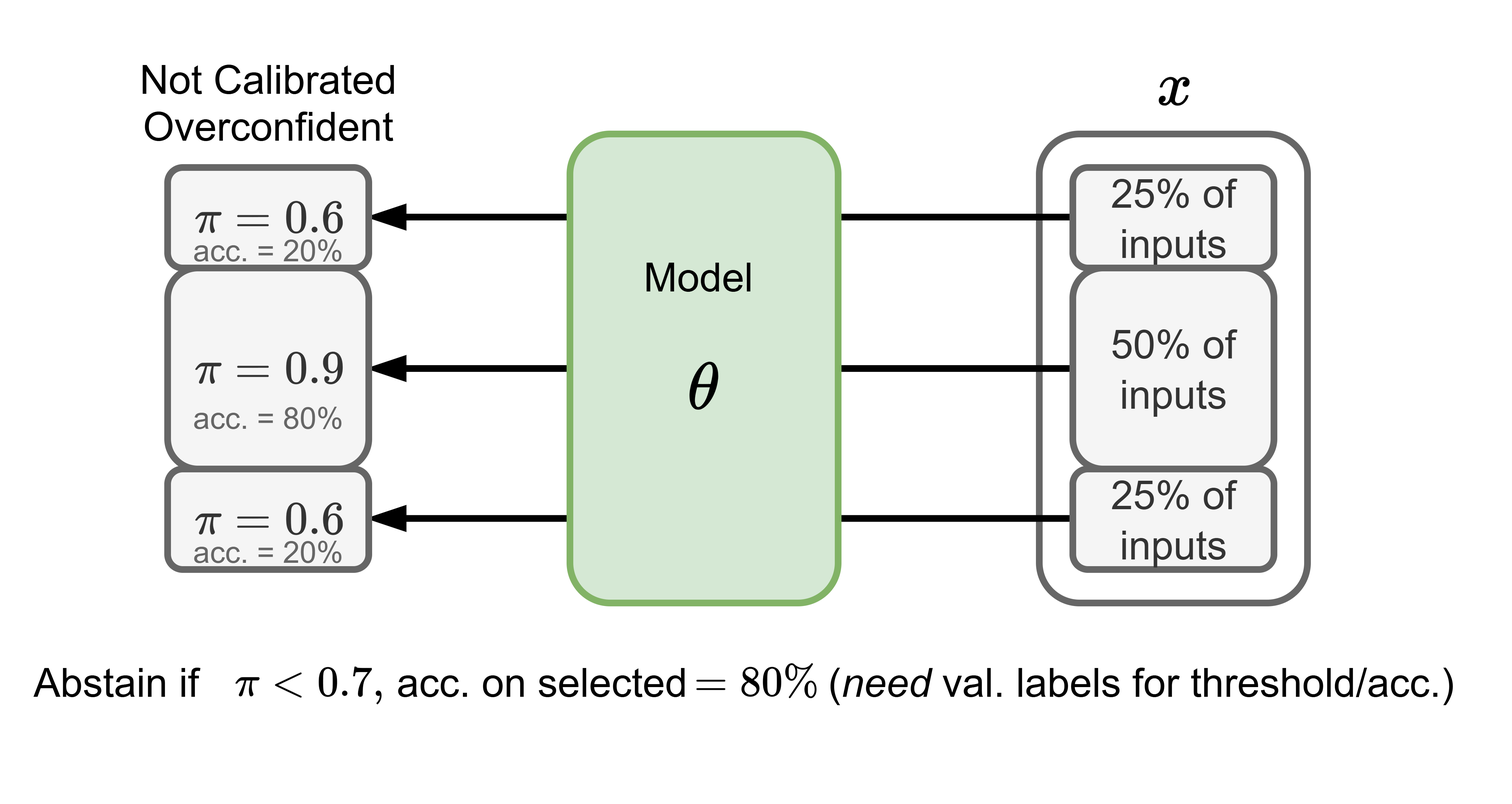
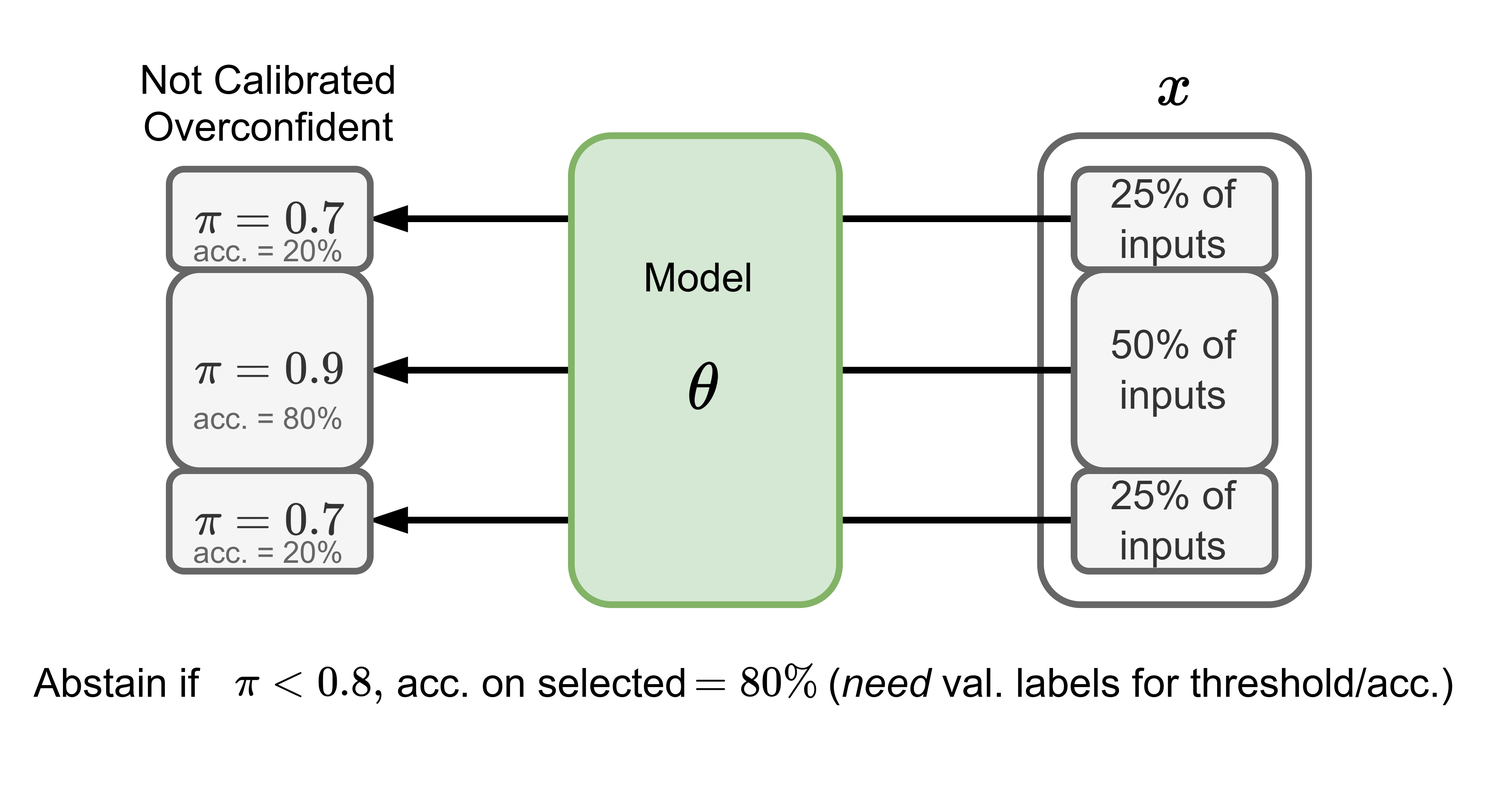
updated manuscript

diff --git a/_posts/2026-04-27-useful-calibrated-uncertainties.md b/_posts/2026-04-27-useful-calibrated-uncertainties.md
@@ -1,7 +1,7 @@
 ---
 layout: distill
 title: What (and What Not) are Calibrated Uncertainties Actually Useful for?
-description: The blogpost clarifies the usefulness of having a model with calibrated probabilities, something that is not often stated in the calibration literature. I shows that a calibrated model can be relied on to estimate average loss/reward, however, good calibration does not mean that a model is useful for per-sample decision making. 
+description: This blogpost clarifies the practical usefulness of having a model with calibrated probabilities, something that is not often clearly stated in the calibration literature. We show that a calibrated model can be relied on to estimate average loss/reward, however, good calibration does not mean that a model is useful for per-sample decision making. 
 date: 2026-04-27
 future: true
 htmlwidgets: true
@@ -42,18 +42,18 @@ toc:
 {% include figure.liquid path="assets/img/2026-04-27-useful-calibrated-uncertainties/confused.png" class="img-fluid z-depth-1" %}
 ## People Have a Fuzzy Impression of Calibration (in AI)
 
-The goal of this blogpost is to provide an intuitive and helpful guide on understanding the *practical usefulness* of a *well-calibrated* model, for practitioners/researchers in AI both familiar and unfamiliar with calibration. Anecdotally, when I tell researchers and practictioners from other domains that I work in uncertainty estimation, they often give remarks along the lines of "Oh so like calibration?" or "You mean probabilistic and Bayesian/Conformal stuff?". They seem to know of the research domain and associate it with vague motivations of "safety", "trustworthiness" and "reliability", but often have unclear senses of what it actually entails. Furthermore, even *within* the research domain people often have fuzzy impressions of the motivation for wanting a calibrated model. Papers on calibration are often written with one or two motivating paragraphs, before promptly moving onto the main algorithmic meat. Reading the literature thus becomes a way to learn about *how to better calibrate models* without really engaging concretely with *how, why and when calibrated models are useful*. 
+The goal of this blogpost is to provide an intuitive and helpful guide on understanding the *practical usefulness* of a *well-calibrated* model, for practitioners/researchers in AI both familiar and unfamiliar with calibration. Anecdotally, when I tell researchers and practictioners from other domains that I work in uncertainty estimation, they often give remarks along the lines of "Oh so like calibration?" or "You mean probabilistic and Bayesian stuff?". They seem to know of the research domain and associate it with vague motivations of "safety", "trustworthiness" and "reliability", but often have an unclear sense of what it actually entails. Furthermore, even amongst uncertainty researchers, people often have fuzzy impressions of the motivation for wanting a calibrated model. Papers on calibration are often written with one or two motivating paragraphs, before promptly moving onto the main algorithmic meat. Reading the literature thus becomes a way to learn about *how to better calibrate models* without really engaging concretely with *how, why and when calibrated models are useful*. 
 
-Morevoer, many such motivating paragraphs, in order to communicate more intuitively, end up being imprecise and consequently misleading. Below I've included an excerpt from the introduction of *On Calibration of Modern Neural Networks* <d-cite key="Guo2017Calibration"></d-cite> which is the go-to introductory paper for calibration in deep learning. It is broadly representative of how calibration is typically motivated in AI research recently, and we will unpick it gradually over the course of this blogpost.
+Many motivating paragraphs in papers, in order to communicate with the reader more intuitively, end up being imprecise and consequently misleading. Below I've included an excerpt from the introduction of *On Calibration of Modern Neural Networks* <d-cite key="Guo2017Calibration"></d-cite> which is the go-to introductory paper for calibration in deep learning. It is broadly representative of how calibration is typically motivated in AI research recently, and we will unpick it gradually over the course of this blogpost.
 > In real-world decision making systems, classification networks must not only be accurate, but also should indicate when they are likely to be incorrect. As an example, consider a self-driving car that uses a neural network to detect pedestrians and other obstructions. If the detection network is not able to confidently predict the presence or absence of immediate obstructions, the car should rely more on the output of other sensors for braking. Alternatively, in automated health care, control should be passed on to human doctors when the confidence of a disease diagnosis network is low. Specifically, a network should provide a calibrated confidence measure in addition to its prediction. In other words, the probability associated with the predicted class label should reflect its ground truth correctness likelihood. 
 
-A reader is likely to come away from this paragraph thinking that calibration is important for *mitigating risk* from errors during *individual scenarios* (i.e. for an specific road object or individual patient). The reality is more nuanced than this; calibration is actually somewhat orthogonal to a model's ability to detect its own errors. As such, it is easy to come to misunderstandings over calibration when engaging with the literature. After reading this blogpost, hopefully the reader will have a clearer understanding and intuition of what a calibrated model enables/is important for, and in what usecases calibration is actually insufficient. 
+A reader is likely to come away from this paragraph thinking that calibration is important for *mitigating risk* from errors during *individual scenarios* (i.e. for a specific road object or individual patient). The reality is more nuanced than this; calibration is actually somewhat orthogonal to a model's ability to detect its own errors. As such, it is easy to come to misunderstandings over calibration after reading passages like the above in the literature. After reading this blogpost, hopefully the reader will have a clearer understanding and intuition of what a calibrated model actually is important for, and in what usecases calibration is actually insufficient. 
 
 ## A General Explanation of Calibration
 
-Calibration, as it is defined in deep learning, is not an intuitive concept to understand. As such paper authors tend to first motivate it using imprecise, but more intuitive natural language. I will first provide a general explanation of calibration to the reader as a basis for the rest of the blogpost.
+Calibration, as it is defined in deep learning, is not an intuitive concept to understand. As such paper authors tend to first motivate it using imprecise, but more intuitive natural language, like in the example above. We will instead start with a clear and general explanation of calibration to the reader as a basis for the rest of the blogpost.
 
-For a model to be calibrated, when it predicts a certain probability distribution over different outcomes, the real-world frequency of said outcomes should match that probability distribution. A widely used example is weather forecasting: over a long run of days, it should rain 70% of the time for the days forecasted with 70% chance of rain. Explicitly in natural language a calibrated model is one where 
+For a model to be calibrated, when it predicts a certain probability distribution over different outcomes, the real-world frequency of said outcomes should match that probability distribution.<d-footnote>We will focus on distributions over discrete outcomes in the post as it is the most common setting for calibration.</d-footnote> A widely used example is weather forecasting: over a long run of days, it should rain on 70% of the days which have 70% chance of rain forcasted. Explicitly in natural language a calibrated model is one where 
 
 $$
 \begin{array}{l}
@@ -80,7 +80,7 @@ $$
 \underbrace{P(\text{event} \mid  \pi) = \pi}_\text{actual probability of event is $\pi$},\quad \text{for }\underbrace{\pi={P}_{\theta}(\text{event}\mid \text{conditions}) }_\text{when model predicts probability $\pi$}\text{ in } [0,1], \tag{2}\label{eq:calib-math}
 $$
 
-where $\pi$ is a random variable that captures the value of the probability output by our model with parameters $\theta$. $\text{conditions}$ could be "temperature of the previous day", for example.  We leave the general version here for reference. In this blogpost we will focus on binary events, however, the intuitions/ideas naturally extend to the general case.
+where $\pi$ is a random variable that captures the value of the probability output by our model with parameters $\theta$. $\text{conditions}$ could be "temperature of the previous day", for example. In this blogpost we will focus on binary events, however, the intuitions/ideas naturally extend to the general case. We leave the general version here for reference:
 
 $$
 \begin{align*}
@@ -107,9 +107,9 @@ In the binary case, how well calibrated a model is can be visualised using a rel
 Left: Reliability diagram showing over and under-confident models. Right: Practical reliability diagram where empirical frequencies are estimated using bins.
 </div>
 
-A perfectly calibrated model will thus align with $y=x$. Devation below indicates "overconfidence" (frequency < predicted probability); deviation above indicates "underconfidence" (frequency > predicted probability). Note that the notion of over/under-confidence is much more specific here than in colloquial usage; we will return to this point later. Also, a model can be overconfident for a certain range of probabilities and underconfident on a different range (i.e. both at the same time), however, for simplicity's sake we'll limit discussion in this blog to models that are either over or under confident without loss of generality.
+A well calibrated model's reliability diagram will align with $y=x$ (Eq. \ref{eq:calib-natlang} is satisfied). Devation below indicates "overconfidence" (real frequency < predicted probability); deviation above indicates "underconfidence" (real frequency > predicted probability). Note that the notion of over/under-confidence is much more specific here than in colloquial usage; we will return to this point later. Also, a model can be overconfident for a certain range of probabilities and underconfident on a different range (i.e. both at the same time), however, for simplicity's sake we'll limit discussion in this blog to models that are either over or under confident without loss of generality.
 ### Confidence Calibration
-The above general presentation of calibration doesn't immediately resonate with the idea of mitigating risk in safety-critical scenarios that is present in our quoted exerpt from *On Calibration of Modern Neural Networks* <d-cite key="Guo2017Calibration"></d-cite>, as well as generally throughout the literature. In fact, in *On Calibration of Modern Neural Networks*, Guo et al. choose a binary $\text{event}$ "model prediction is correct" from the scenario of multi-class classification, which then inherently ties calibration to prediction errors and their associated risks/costs. This specific case of calibration is known as *confidence calibration* and is the primary form that is found in the literature <d-cite key="Guo2017Calibration,Minderer2021Revisiting,param_temp_scaling_eccv2022,Xiong2023ProCal"></d-cite>. In this case, Eq. \ref{eq:calib-natlang} becomes:
+The above general presentation of calibration doesn't immediately resonate with the idea of mitigating risk in safety-critical scenarios that is present in our quoted exerpt from *On Calibration of Modern Neural Networks* <d-cite key="Guo2017Calibration"></d-cite>, as well as generally throughout the literature. In fact, in *On Calibration of Modern Neural Networks*, Guo et al. choose a binary $\text{event}$ "model prediction is correct" from the scenario of multi-class classification, which then inherently ties calibration to prediction errors and their associated risks/costs. This specific case of calibration is known as *confidence calibration* and is the primary form that is found in the deep learning literature <d-cite key="Guo2017Calibration,Minderer2021Revisiting,Zhang2020MixnMatchCalibration,param_temp_scaling_eccv2022,Xiong2023ProCal"></d-cite>. In this case, Eq. \ref{eq:calib-natlang} becomes:
 
 $$
 \begin{array}{l}
@@ -120,14 +120,24 @@ $$
 \tag{3}\label{eq:conf-calib-natlang}
 $$
 
-or mathematically for true label $y$, input $x$ and predicted label (top class) $\hat y=f_\phi(x)$
+or mathematically for true label $y$, input $x$ and predicted label (top class) $\hat y=f_\phi(x)$ of classifier $f_\phi$ with parameters $\phi$,
 <!-- =\arg \max_\omega P_{\theta}(\omega\mid x)$, -->
 
 $$
 \underbrace{P\bigl(y=\hat y \mid  \pi\bigr) = \pi}_\text{actual classification accuracy is $\pi$},\quad \text{for }\underbrace{\pi=P_{\theta}(y=\hat y\mid x) }_\text{predicts probability $\pi$} \text{ in } [0,1]. \tag{4}\label{eq:conf-calib-math}
 $$
 
-One nuance the reader should be aware of is that for the purposes of confidence calibration, the model for the binary event $P_\theta(y=\hat y\mid x)$ is conceptually separate from the underlying classifier $f_\phi(x)$. However, when the classifier is a cross-entropy-trained softmax model (i.e. the vast majority of classifiers in deep learning), ${P}_{\theta}(y=\hat y\mid x)$ can be, and almost always is, extracted from the probability vector over classes output by the classifier<d-cite key="LeCoz2024EfficientCalibration"></d-cite>.
+One nuance the reader should be aware of is that for the purposes of confidence calibration, the model for the binary $\text{event}$ "model prediction is correct" $P_\theta(y=\hat y\mid x)$ is conceptually separate from the underlying classifier $f_\phi(x)$, and does not necessarily have to share parameters. However, when the classifier is a cross-entropy-trained softmax model (i.e. the vast majority of classifiers in deep learning), ${P}_{\theta}(y=\hat y\mid x)$ can be, and almost always is, extracted from the probability vector over classes output by the classifier<d-cite key="LeCoz2024EfficientCalibration"></d-cite>. In this case
+
+$$
+P_{\theta}(y=\hat y\mid x) =  \text{softmax}\bigl(\text{logits}_\phi(x)\bigr)_\hat{y}.
+$$
+
+$$
+\hat y = \arg\max_k \text{logits}_\phi(x)_k,
+$$
+
+Thus $P_\theta(y=\hat y\mid x)$ can be viewed as the confidence of the classifier $f_\phi$ in its own prediction, hence the name *confidence calibration*.
 
 For further discussion of other realisations of calibration (e.g. with different definitions of the binary $\text{event}$), as well as more specifics on how calibration is measured in practice (e.g *Expected Calibration Error*<d-cite key="Naeini2015BBQ"></d-cite>) I recommend this [excellent blogpost](https://iclr-blogposts.github.io/2025/blog/calibration/) by Maja Pavlovic <d-cite key="pavlovic2025understanding"></d-cite>.
 ## What Do Calibrated Probabilities Allow You to Do?
@@ -138,7 +148,7 @@ $$
 P(e \mid  \pi) = \pi, \quad \text{for }\pi={P}_{\theta}(e\mid c) \in [0,1].
 $$
 
-where we've abbreviated $\text{event}$ and $\text{conditions}$ to random variables $e$ and $c$ respectively. Intuitively, this means that for the predictions with $\pi$ equals to some value, say $0.7$, we can reliably expect $\text{event}$ to occur $70\%$ of the time. Consider a loss (or reward) function $\mathcal{L}(e,\pi)$ that depends on $\text{event}$ and the model's predicted probability. For example, the 0-1 multiclass classification loss for confidence calibration is 0 when $\text{event}$ occurs (correct prediction) and 1 when $\text{event}$ doesn't occur (misclassification). Intuitively, we can now rely on $\pi$ to calculate the *expected/average loss*. Consider confidence calibration where for some image classifier our binary model is assigning the predicted class probability $\pi=0.6$ of being correct for half of the input images $x$ and $\pi=0.4$ for the other half. If our model is well calibrated we can then reliably claim that it will have an average accuracy of $60\%$ on the first half and $40\%$ on the second half, leading to an overall accuracy of $50\%$, *without needing to compare its predictions to any ground truth labels $y$*. This is the sense in which a calibrated model is *reliable*.
+where we've abbreviated $\text{event}$ and $\text{conditions}$ to random variables $e$ and $c$ respectively. Intuitively, this means that for the predictions with $\pi$ equals to some value, say $0.7$, we can reliably expect $\text{event}$ to occur $70\%$ of the time. Consider a loss (or reward) function $\mathcal{L}(e,\pi)$ that depends on $\text{event}$ and the model's predicted probability. For example, in the case of confidence calibration, the 0-1 multiclass classification loss is 0 when $\text{event}$ occurs (correct prediction) and 1 when $\text{event}$ doesn't occur (misclassification). Intuitively, we can now rely on $\pi$ to calculate the *expected/average loss*. Consider confidence calibration where for some image classifier our binary model is predicting $\pi=0.6$ probability of being correct for half of the input images $x$ and $\pi=0.4$ for the other half. If our model is well calibrated we can then reliably claim that it will have an average accuracy of $60\%$ on the first half and $40\%$ on the second half, leading to an overall accuracy of $50\%$, *without needing to compare its predictions to any ground truth labels $y$*. This is the sense in which a calibrated model is *reliable*.
 
 {% include figure.liquid path="assets/img/2026-04-27-useful-calibrated-uncertainties/calibration_illust.png" class="img-fluid z-depth-1" %}
 
@@ -146,7 +156,7 @@ where we've abbreviated $\text{event}$ and $\text{conditions}$ to random variabl
 Illustration of how a confidence-calibrated model allows estimation of expected accuracy from only inputs/conditions without needing events/labels.
 </div>
 
-Once we have a reliable estimate of the expected loss/reward we can make downstream decisions, e.g. in this deployment scenario the image classifier is not accurate enough and will lead to profit loss from misclassifications, so we decide to not deploy it. Additionally, humans are naturally able to interpret probabilities by inspection <d-cite key="CosmidesTooby1996IntuitiveStat"></d-cite>, so human decision making can be performed naturally and reliably if model outputs are calibrated probabilities.
+Once we have a reliable estimate of the expected loss/reward we can make downstream decisions, e.g. for a certain deployment scenario the image classifier is not accurate enough and will lead to profit loss from misclassifications, so we decide to not deploy it. Additionally, humans are naturally able to intuitively interpret probabilities by inspection <d-cite key="CosmidesTooby1996IntuitiveStat"></d-cite>,<d-footnote>Imagine you are told a weighted coin returns heads 80% of the time. It's easy to visualise and reason about.</d-footnote> so human decision making can be performed naturally and reliably if model outputs are calibrated probabilities.
 
 > **Key Takeaway.**
 >  *A well-calibrated model enables reliable estimation of average loss/reward from only inputs/conditions without any ground truth events/labels. These reliable estimates can then be used to effectively inform downstream decisions that depend on average behaviour*. 
@@ -170,9 +180,9 @@ If the model is well calibrated we can subsitute $\pi$ in for $P(e\mid \pi)$ and
 $$
 \begin{align*}
 \mathbb{E}[\mathcal{L}(e,\pi(e,c))]&=  \sum_{e,\pi} \mathcal{L}(e,\pi) P(e \mid \pi) \sum_{c} \delta(\pi(e,c)) P(c) \\
-&=  \underbrace{\sum_{e} \mathcal{L}(e,\pi) \sum_{c}\pi(e,c) P(c)}_{\text{no explicit sum over }\pi\text{ as it is a fixed function of }e,c} \\
-&=  \sum_{c} P(c) \sum_{e} \mathcal{L}(e,\pi) \pi(e,c)\\
-&\approx \frac{1}{N} \sum_{n} \mathcal{L}(e=1,\pi^{(n)}) \pi^{(n)} +\mathcal{L}(e=0,\pi^{(n)}) (1-\pi^{(n)})  
+&=  \underbrace{\sum_{e} \mathcal{L}(e,\pi) \sum_{c}\pi(e,c) P(c)}_{\text{no sum over }\pi\text{ as it is a fixed function of }e,c} \\
+&= \underbrace{\sum_{c} P(c) \sum_{e} \mathcal{L}(e,\pi) \pi(e,c)}_{\text{no need for }P(e,c)\text{ only the distribution }P(c)}\\
+&\approx \frac{1}{N} \sum_{n} \mathcal{L}(e=1,\pi^{(n)}) \pi^{(n)} +\mathcal{L}(e=0,\pi^{(n)}) (1-\pi^{(n)})  \tag{5}\label{eq:expected-loss-est}
 \end{align*}
 $$
 
@@ -180,22 +190,23 @@ Thus showing that **a well-calibrated model enables reliable estimation of avera
 
 ### Interactive Example
 Below we discuss a concrete example where we want to decide on a decision threshold for issuing loans based on predicted default probabilities. The problem setup is as follows:
-- A bank wants to issue loans to customers based on their predicted probability of default.
+- A bank wants to issue loans to customers based on their predicted probability of default (failure to pay the loan back) .
 - On average 35% of customers default on their loans.
 - The bank incurs a loss of 240 dollars for each defaulted loan and gains 18 dollars for each successfully repaid loan.
-- The bank uses a machine learning model to predict the probability of default (failure to pay back) for each customer.
-- If the predicted probability of default is above threshold $\tau$ the bank decides not to lend.
+- The bank uses a machine learning model to predict the probability of default for each customer.
+- If the predicted probability of default is above threshold $\tau$ the bank decides not to lend (no loss or profit for that customer).
 - The bank wants to choose the threshold $\tau$ that maximises profit, but the responsible department doesn't have access to default event data and so relies on the model probabilities assuming they are calibrated.
+- Given calibrated predicted probability of default $\pi$, the expected profit from issuing a loan is $18 \times (1-\pi) - 240 \times \pi$.
 
-Explore $\tau$ by varying it to maximise the estimated profit. You should observe that by optimising $\tau$ based on the calibrated model probabilities, the bank can achieve near-optimal profit even without access to default $\text{event}$ data, i.e. the model can be trusted. Now toggle to the uncalibrated models. The average profit estimates become unreliable, leading to choices of $\tau$ that squander profit or even incur losses on the actual customers. The model that is overconfident about the probability of defaulting leads to overly pessimistic estimates of profit, whilst the underconfident model is overly optimistic. 
+Explore $\tau$ by varying it to maximise the estimated profit.<d-footnote>Note that intutively the optimal threshold is on the boundary where expected profit given $\pi$ turns to zero for calibrated $\pi$.</d-footnote>  You should observe that by optimising $\tau$ based on the calibrated model probabilities, the bank can achieve near-optimal profit even without access to default $\text{event}$ data, i.e. the model can be trusted. Now toggle to the uncalibrated models. The average profit estimates become unreliable, leading to choices of $\tau$ that squander profit or even incur losses on the actual customers. The model that is overconfident about the probability of defaulting leads to overly pessimistic estimates of profit, whilst the underconfident model is overly optimistic. 
 
 <div class="l-page">
   <iframe
     src="{{ 'assets/html/2026-04-27-useful-calibrated-uncertainties/loan_widget.html' | relative_url }}"
     frameborder="0"
     scrolling="no"
-    height="600px"
-    width="120%"
+    height="500px"
+    width="100%"
   ></iframe>
 </div>
 
@@ -207,12 +218,12 @@ Recall the motivating paragraph from *On Calibration of Modern Neural Networks* 
 {% include figure.liquid path="assets/img/2026-04-27-useful-calibrated-uncertainties/selective_classification.png" class="img-fluid z-depth-1" %}
 
 <div class="caption">
-Illustration automated medical diagnosis with selective classification where a prediction should be deferred to an expert if it is likely to be incorrect.
+Illustration of automated medical diagnosis with selective classification where a prediction should be deferred to an expert if it is likely to be incorrect.
 </div>
 
-What the authors are actually describing here is selective classification <d-cite key="Geifman2017SelectiveClassification,Jaeger2023FailureDetection,Xia2024SelectiveOOD"></d-cite> (or classification with abstention), rather than calibration. In selective classification, if a model is likely to make an error on a specific input, then a useful uncertainty estimate should reflect this by indicating low confidence, triggering abstention, e.g. deferring a diagnosis to a human doctor. That is to say, better per-sample decisions can be made based on the model $P_\theta(\text{event}\mid \text{conditions})$. This is an intuitively desirable property for uncertainty estimates, however, **a well-calibrated model is not one that is necessarily better for per-sample decision making**, like selective classification.
+The task the authors are describing here is selective classification <d-cite key="Geifman2017SelectiveClassification,Jaeger2023FailureDetection,Xia2024SelectiveOOD"></d-cite> (or classification with abstention). In selective classification, if a model is likely to make an error on a specific input, then a useful uncertainty estimate should reflect this by indicating low confidence, triggering abstention, e.g. deferring a diagnosis to a human doctor. Here, per-sample decisions are made based on the model $P_\theta(\text{event}\mid \text{conditions})$. This is an intuitively desirable property for uncertainty estimates, however, **a well-calibrated model is not one that is necessarily better for per-sample decision making**, for tasks such as selective classification.
 
-Consider our previous well-calibrated image classifier. Here we are focusing on the model of $P_\theta(\text{event of correct prediction}\mid \text{image})$ rather than the multi-class classifier $f_\phi(x)$ itself, which we assume has a constant accuracy of $50\%$. If we set $\tau = 0.5$, then we would abstain on the images with accuracy $40\%$ and boost the accuracy on the selected images to $60\%$. 
+Consider again our previously discussed well-calibrated image classifier. Here we are focusing on the model of $P_\theta(\text{event of correct prediction}\mid \text{image})$ rather than the multi-class classifier $f_\phi(x)$ itself, which we assume has a constant accuracy of $50\%$. If we set abstention threshold $\tau = 0.5$, then we would abstain on the images with accuracy $40\%$ and boost the accuracy on the selected images to $60\%$. 
 
 {% include figure.liquid path="assets/img/2026-04-27-useful-calibrated-uncertainties/calibration_discrimination.png" class="img-fluid z-depth-1" %}
 
@@ -220,7 +231,7 @@ Consider our previous well-calibrated image classifier. Here we are focusing on 
 Illustration of how abstention can improve accuracy by rejection uncertain predictions.
 </div>
 
-However, if we consider another well-calibrated model that predicts $\pi=0.5$ for *all* images, then all predictions have tied confidence and we have no way to discriminate between correct and incorrect predictions. It is well-calibrated but its uncertainties are *useless* for abstaining on potential errors! The key here is that *calibration is related to the accuracy* ***averaged*** *over different inputs* $x$, and does not interrogate the model for each input individually. It only examines $\pi$ with respect to true probability $P(\text{event}\mid \pi)$, not with respect to true probability $P(\text{event}\mid \text{conditions})$.
+However, if we consider another well-calibrated model that predicts the average accuracy $\pi=0.5$ for *all* images, then all predictions have tied confidence and we have no way to discriminate between correct and incorrect predictions, even though for selective classification we would like our model to be more uncertain on errors. The model is well-calibrated but its uncertainties are *useless* for abstaining on potential errors! The key here is that *calibration is related to the accuracy* ***averaged*** *over different inputs* $x$, and does not interrogate the model for each input individually. It only examines $\pi$ with respect to true probability $P(\text{event}\mid \pi)$, not with respect to the per-sample true probability $P(\text{event}\mid \text{conditions})$.
 
 {% include figure.liquid path="assets/img/2026-04-27-useful-calibrated-uncertainties/cal_bad_disc.png" class="img-fluid z-depth-1" %}
 
@@ -228,7 +239,7 @@ However, if we consider another well-calibrated model that predicts $\pi=0.5$ fo
 Illustration of how a well-calibrated model with no discrimination ability cannot improve accuracy via abstention.
 </div>
 
-Conversely, if a different well-calibrated model for $\text{event}$ "correct prediction" is able to predict $\pi=0.8$ for a subset of half of the images where the classifier has accuracy $80\%$ and $\pi=0.2$ for the other half where accuracy is $20\%$, then the selected images will have an accuracy of $80\%$ when setting $\tau=0.5$. 
+Conversely, if a different well-calibrated model for $\text{event}$ "correct prediction" is able to predict $\pi=0.8$ for a subset of half of the images where the classifier has accuracy $80\%$ (different to previous subsets) and $\pi=0.2$ for the other half where accuracy is $20\%$, then the selected images will have an accuracy of $80\%$ when setting $\tau=0.5$. 
  
  {% include figure.liquid path="assets/img/2026-04-27-useful-calibrated-uncertainties/cal_better_disc.png" class="img-fluid z-depth-1" %}
 
@@ -236,7 +247,9 @@ Conversely, if a different well-calibrated model for $\text{event}$ "correct pre
 Illustration of how a well-calibrated model with better discrimination ability can improve accuracy via abstention.
 </div>
  
-Finally, if we consider an uncalibrated (overconfident) model that predicts $\pi=0.9$ for half of the images where the classifier has accuracy $80\%$ and $\pi=0.6$ for the other half where accuracy is $20\%$, then the selected images will have an accuracy of $80\%$ when setting $\tau=0.7$. In this case, despite being *uncalibrated*, the model is still able to effectively discriminate between correct and incorrect predictions and abstain on samples it is more likely to be incorrect on. However, in order to estimate the accuracy of selected images and thus reliably choose a threshold $\tau$ for deployment, we would need access to ground truth labels from a validation set. If you don't trust the calibration of your model, the only way to reliably determine its performance is to validate it against ground truth labels.
+Finally, if we consider an uncalibrated (overconfident) model that predicts $\pi=0.9$ for the same subset of size 50% as above where the classifier has accuracy $80\%$ and $\pi=0.7$ for the other half where accuracy is $20\%$, then the selected images will have an accuracy of $80\%$ when setting $\tau=0.8$. In this case, despite being *uncalibrated*, the model is still able to effectively discriminate between correct and incorrect predictions and abstain on samples it is more likely to be incorrect on. 
+
+However, in order to estimate the accuracy of selected images and thus reliably choose a threshold $\tau$ for deployment, we would need access to ground truth labels from a validation set. If we wanted 80% accuracy on selected images and relied on the uncalibrated model's $\pi$, rather than validation labels, we would have ended up selecting all images and ended up with an accuracy of only 50%. If you don't trust the calibration of your model, the only way to reliably determine its performance is to validate it against ground truth labels.
  
  
 {% include figure.liquid path="assets/img/2026-04-27-useful-calibrated-uncertainties/uncal_better_disc.png" class="img-fluid z-depth-1" %}
@@ -252,7 +265,7 @@ To summarise the above,
 > **Key Takeaway.**
 > *A well-calibrated model does not in any way guarantee good performance for downstream decision making for individual inputs. What fundamentally determines performance is the ability to* ***discriminate*** *between $\text{event}$ and $\text{no event}$ for each individual set of $\text{conditions}$. Calibration means reliable estimation of average loss/reward which enables the setting of decision rules without access to ground truth events/labels, however, the same rules can be determined equivalently using uncalibrated models if there is access to ground truth events/labels for validation.*
 
-
+We can now see how the motivating paragraph from *On Calibration of Modern Neural Networks* <d-cite key="Guo2017Calibration"></d-cite> can lead to misunderstandings. It suggests that confidence calibration is important for selective classification, but it does not clarify that calibration is orthogonal to the model's ability to discriminate between correct and incorrect predictions on individual inputs. Rather, good calibration instead allows the abstention decision rule (threshold) to be set reliably without validation labels. Crucially, calibration is not actually necessary to achieve good selective classification performance if validation labels are available.
 
 Now we will write out the above discussion more mathematically. Again, if the above inuition is sufficient for the reader, they can skip to the interactive widget below. Consider again the calibration equation (Eq. \ref{eq:calib-math}) and Eq. \ref{eq:calib-math-avg},
 
@@ -338,7 +351,9 @@ $$
 $$
 
 and choose the threshold $t$ that minimises $\hat R(t)$. Since every $t$ corresponds to some posterior threshold $\tau$, any strictly monotone (possibly uncalibrated) mapping of $P(e \mid c)$ is sufficient for learning the optimal binary thresholding rule from validation data. -->
-Thus calibration alone does not tell you whether or not you will be able to make good decisions on individual inputs. Now to concretely discuss our examples of selective classification and loan issuance, note that what matters for decision making is how well we can order or distinguish different $\text{conditions}$, not the absolute value of the predicted probability.
+Thus calibration alone does not tell you whether or not you will be able to make good decisions on individual inputs. As an aside, one might ask, why not define calibration in terms of $P(\text{event}\mid \text{conditions}) = \pi(e,c)$ directly? The reason is that this is not typically possible to evaluate in practice as it would require the sampling of multiple $\text{event}$ outcomes for the same $\text{conditions}$. For the rain forecasting example, it would be like being able to rewind time and replay the same day over and over to see if it rains or not.
+
+Now to concretely discuss our examples of selective classification and loan issuance, note that what matters for decision making performance is how well we can order or distinguish different $\text{conditions}$ using $P_{\theta}(e\mid c)$, not the absolute value of the predicted probability.
 
 Consider again a binary event $e \in \{0,1\}$ and define the true event probability
 
@@ -376,7 +391,7 @@ $$
 \hat R(\eta) = \frac{1}{N}\sum_{n=1}^N \mathcal{L}\bigl(e^{(n)},\pi(e^{(n)},c^{(n)}),d(c^{(n)};\eta)\bigr),
 $$
 
-and choose the parameter $\eta$ that minimises this estimate. Since there is a one-to-one correspondence between $\eta$ and $\eta'$, any strictly monotone (possibly uncalibrated) mapping of $P(e\mid c)$ is sufficient for learning the optimal decision rule within this family from validation data.
+and choose the parameter $\eta$ that minimises this estimate. Since there is a one-to-one correspondence between $\eta$ and $\eta'$, any strictly monotone (possibly uncalibrated) mapping of $P(e\mid c)$ is sufficient for learning the optimal decision rule within this family from validation data. A calibrated model is not required, however, in the absence of validation data it allows the estimation of $R(\eta)$ without access to events $e^{(n)}$ as discussed previously (Eq. \ref{eq:expected-loss-est}).
 
 In the particular cases we consider in this blog (selective classification and loan issuance), the decision rule is a simple binary threshold of the score,
 
@@ -388,15 +403,15 @@ Finally, if the reader is interested in exploring further theory related to the 
 
 ### Interactive Example Continued
 
-Extending our previous interactive example of the bank deciding whether to issue loans, we introduce three different levels of discrimination for the predicted default probabilities. We use the standard Receiver Operating Characteristic (ROC) curve to show discrimination ability. Observe how the maximum actualisable profit when varying $\tau$ depends on the discrimination ability of the model, not its calibration. A well-calibrated model with no discrimination ability is able to reliably estimate that it can't make any money, but it still can't make any money! Also observe how having access to validation labels (i.e. reading the actualised profit directly) means you don't need to pay attention to the estimated profit (and thus the calibration of the model). 
+Extending our previous interactive example of the bank deciding whether to issue loans, we introduce three different levels of discrimination for the predicted default probabilities， i.e. how useful $\pi$ is for separating defaulting customers from non-defaulting customers. We use the standard Receiver Operating Characteristic (ROC) curve to show binary discrimination ability. Observe how the maximum actualisable profit when varying $\tau$ depends on the discrimination ability of the model, not its calibration. A well-calibrated model with no discrimination ability is able to reliably estimate that it can't make any money, but it still can't make any money! Also observe how having access to validation labels (i.e. reading the actualised profit directly) means you don't need to pay attention to the estimated profit (and thus the calibration of the model). 
 
 <div class="l-page">
   <iframe
     src="{{ 'assets/html/2026-04-27-useful-calibrated-uncertainties/loan_discrimination_widget.html' | relative_url }}"
     frameborder="0"
     scrolling="no"
-    height="600px"
-    width="120%"
+    height="500px"
+    width="100%"
     style="display:block; margin: 0 auto; max-width: 100%;"
   ></iframe>
 </div>
@@ -408,24 +423,35 @@ Looking at our motivating paragraph from *On Calibration of Modern Neural Networ
 
 > In real-world decision making systems, classification networks must not only be accurate, but also should indicate when they are likely to be incorrect. As an example, consider a self-driving car that uses a neural network to detect pedestrians and other obstructions. If the detection network is not able to confidently predict the presence or absence of immediate obstructions, the car should rely more on the output of other sensors for braking. Alternatively, in automated health care, control should be passed on to human doctors when the confidence of a disease diagnosis network is low. Specifically, a network should provide a calibrated confidence measure in addition to its prediction. In other words, the probability associated with the predicted class label should reflect its ground truth correctness likelihood.
 
-We can see that in an effort to convey the importance of calibration intuitively, the authors have conflated calibration (something that is important for reliably estimating average loss/reward) with selective classification (something that is important for mitigating risk on individual inputs). This conflation has propagated and been repeated throughout the literature, leading to a fuzzy understanding of calibration's practical importance in the research commmunity <d-cite key="Minderer2021Revisiting,param_temp_scaling_eccv2022,Xiong2023ProCal,Nixon2019CVPRW,Zhang2020MixnMatchCalibration"></d-cite>.
+We can see that in an effort to convey the importance of calibration intuitively, the authors have mixed together calibration with selective classification without communicating the nuances that we've discussed in this blogpost. That is to say, a calibrated model allows the reliable estimation of accuracy and setting of decision rules without validation labels, however, it does not say anything about how well a model is able to separate its own errors from correct predictions. This conflation has propagated and been repeated throughout the literature  <d-cite key="Minderer2021Revisiting,param_temp_scaling_eccv2022,Xiong2023ProCal,Nixon2019CVPRW,Zhang2020MixnMatchCalibration,Meronen2024fixoverconfidence"></d-cite>, leading to a fuzzy understanding of calibration's practical importance in the research commmunity. 
 
 Another factor that leads to confusion is the use of the word "overconfident". A key empirical finding of *On Calibration of Modern Neural Networks* <d-cite key="Guo2017Calibration"></d-cite> is that certain neural networks are overconfident in the *confidence calibration sense*.  This overconfidence result is oft-cited in papers <d-cite key="Minderer2021Revisiting,param_temp_scaling_eccv2022,malinin2020ensemble"></d-cite> as motivation without clarifying that overconfidence in calibration *is orthogonal to how well a model can discriminate individual failures/errors* as we've discussed in this blog. As we alluded to earlier, the meaning of "overconfident" in calibration is different to what it means colloquially. Colloquially, overconfidence typically refers to a person's attitude to a given situation (specific $\text{conditions}$):*"He overconfidently decided to choose the hard option only to fail"*.  Thus it is not hard to see how someone might conflate the colloquial and calibration meanings of "overconfident" together when engaging with the literature, confusing calibration and selective classification. 
 
+Below I've included a few more examples from the literature of imprecise us of language when motivating calibration:
+
+From *Proximity-Informed Calibration for Deep Neural Networks* <d-cite key="Xiong2023ProCal"></d-cite>:
+
+> ...suppose a dark-skinned individual has a high risk of 40% of having the cancer. However, due to their underrepresentation within the data distribution, the model overconfidently assigns them 98% confidence of not having cancer. As a result, these low proximity individuals may be deprived of timely intervention.
+
+Here the authors discuss overconfidence for an individual case, mixing together calibration and selective classification.
+
+From *Revisiting the Calibration of Modern Neural Networks* <d-cite key="Minderer2021Revisiting"></d-cite>:
+
+> Model calibration refers to the accuracy with which the scores provided by the model reflect its predictive uncertainty. For example, in a medical application, we would like to defer images for which the model makes low-confidence predictions to a physician for review. Skipping human review due to confident, but incorrect, predictions, could have disastrous consequences.
+
+Here the authors define calibration in natural language, but then go on to describe selective classification as a motivating example, again conflating the two concepts. 
+
+From *Fixing Overconfidence in Dynamic Neural Networks* <d-cite key="Meronen2024fixoverconfidence"></d-cite>:
+
+> ... adaptive early exiting is typically based on the confidence scores at the individual exits or learned gating functions. Thus, it is crucial that the predictive densities or gating functions are robust and allow for trustworthy decision-making. However, current approaches are problematic as typical neural architectures are: (i) miscalibrated, (ii) overconfident, and (iii) their predictions do not capture epistemic uncertainties...
+
+In this case the authors have introduced calibration in the context of dynamic neural networks whose performance depends on their ability to make decisions on a per-sample basis.
+
+There are many more such examples scattered throughout the literature, however, I hope that after this blogpost the reader is now equipped to avoid the misunderstandings that may arise from them.
 ### A Brief Retrospective
 
-So how did we get here? 
-
+So how did we get here? Originally calibration was very much grounded in the idea that it was a property of models in the *long run*, i.e. averaged over many predictions. Early papers <d-cite key="Dawid1982"></d-cite> etc.
 ## Closing Thoughts and Takeaways
 
-Calibrated uncertainty estimates are essential for building trustworthy machine learning systems. While modern deep learning models achieve high accuracy, they often fail to provide reliable uncertainty estimates. Post-hoc calibration methods offer a practical solution that can be applied to existing models with minimal overhead.
-
-Future research directions include:
-
-1. Developing calibration methods that work well with out-of-distribution data.
-2. Exploring calibration-aware training objectives that improve calibration during training rather than after.
-3. Extending calibration methods to more complex settings such as regression and structured prediction tasks.
-4. Understanding the relationship between calibration and robustness to distribution shift.
-
-As machine learning systems are deployed in increasingly critical applications, the importance of well-calibrated uncertainty estimates will only continue to grow. We hope this blog post provides a useful foundation for understanding and improving calibration in deep learning models.
+The aim of this blogpost was to clarify the usefulness of calibrated probability estimates in machine learning. We showed that a calibrated model allows reliable estimation of average loss/reward, and consequent decisions based on those estimates, without access to validation labels. However, it does not in any way guarantee good performance on tasks that involve per-sample decision making. For the latter, good discrimination is required instead. We also discussed and highlighted how confidence calibration and selective classification have been mixed together in the literature, leading to potential misunderstandings about the nature of calibration with respect to per-sample decisions. We hope that the above blogpost has been helpful to the reader and that they now have a clearer understanding of what calibrated probabilities allow you to do, and what they do not guarantee.
 
